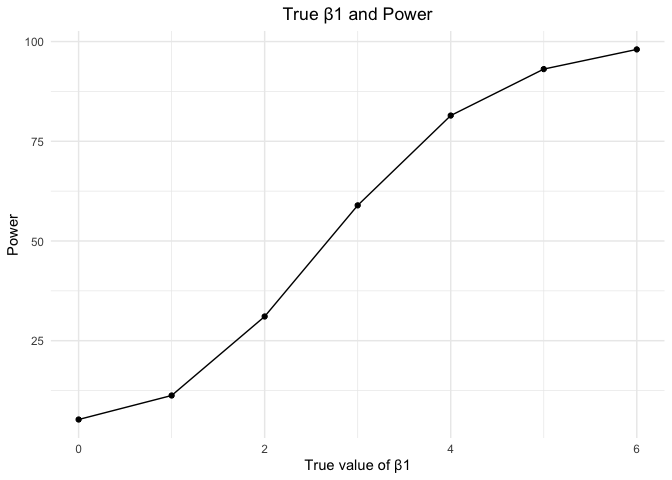
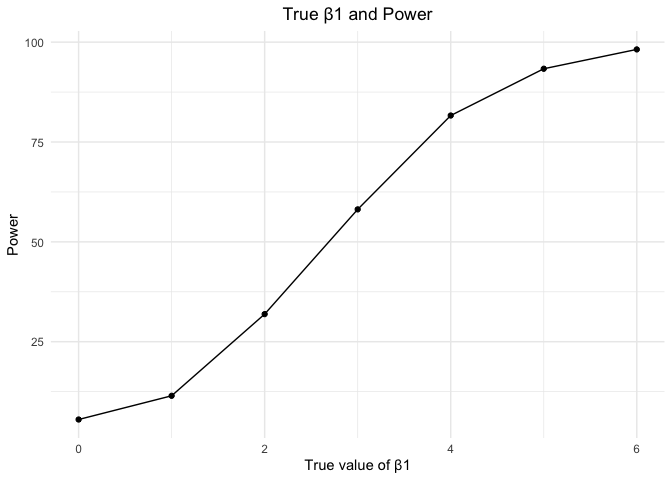
Created two plots for problem 3.

diff --git a/hw5.md b/hw5.md
@@ -66,6 +66,8 @@ p2_tidy_data %>%
 #### Creating Model
 
 ``` r
+set.seed(10)
+
 sim_regression = function(n = 30, beta0 = 2, beta1) {
   
   sim_data = tibble(
@@ -112,3 +114,38 @@ sim_results %>%
 ```
 
 ![](hw5_files/figure-gfm/unnamed-chunk-8-1.png)<!-- -->
+
+In the plot above, as effect size (β1) increases, the power also
+increases.
+
+#### Creating two plots: 1) a plot showing the average estimate of β̂ 1 on the y axis and the true value of β1 on the x axis. 2) plot the average estimate of β̂ 1 only in samples for which the null was rejected on the y axis and the true value of β1 on the x axis.
+
+``` r
+p1 = 
+  sim_results %>% 
+  group_by(b1) %>%
+  summarise(mean = mean(b1_estimate)) %>% 
+  ggplot(aes(x = b1, y = mean)) + 
+  geom_point() + 
+  geom_line() + 
+  labs(title = "Average β1 estimate by true β1") +
+  xlab("True β1") +
+  ylab("Mean β1 estimate")
+
+
+p2 = 
+  sim_results %>% 
+  filter(p_value < 0.05) %>% 
+  group_by(b1) %>%
+  summarise(mean = mean(b1_estimate)) %>% 
+  ggplot(aes(x = b1, y = mean)) + 
+  geom_point() +
+  geom_line() +
+  labs(title = "Average β1 estimate by true β1, subset") +
+  xlab("True β1") +
+  ylab("Mean β1 estimate")
+ 
+p1 + p2
+```
+
+![](hw5_files/figure-gfm/unnamed-chunk-9-1.png)<!-- -->
